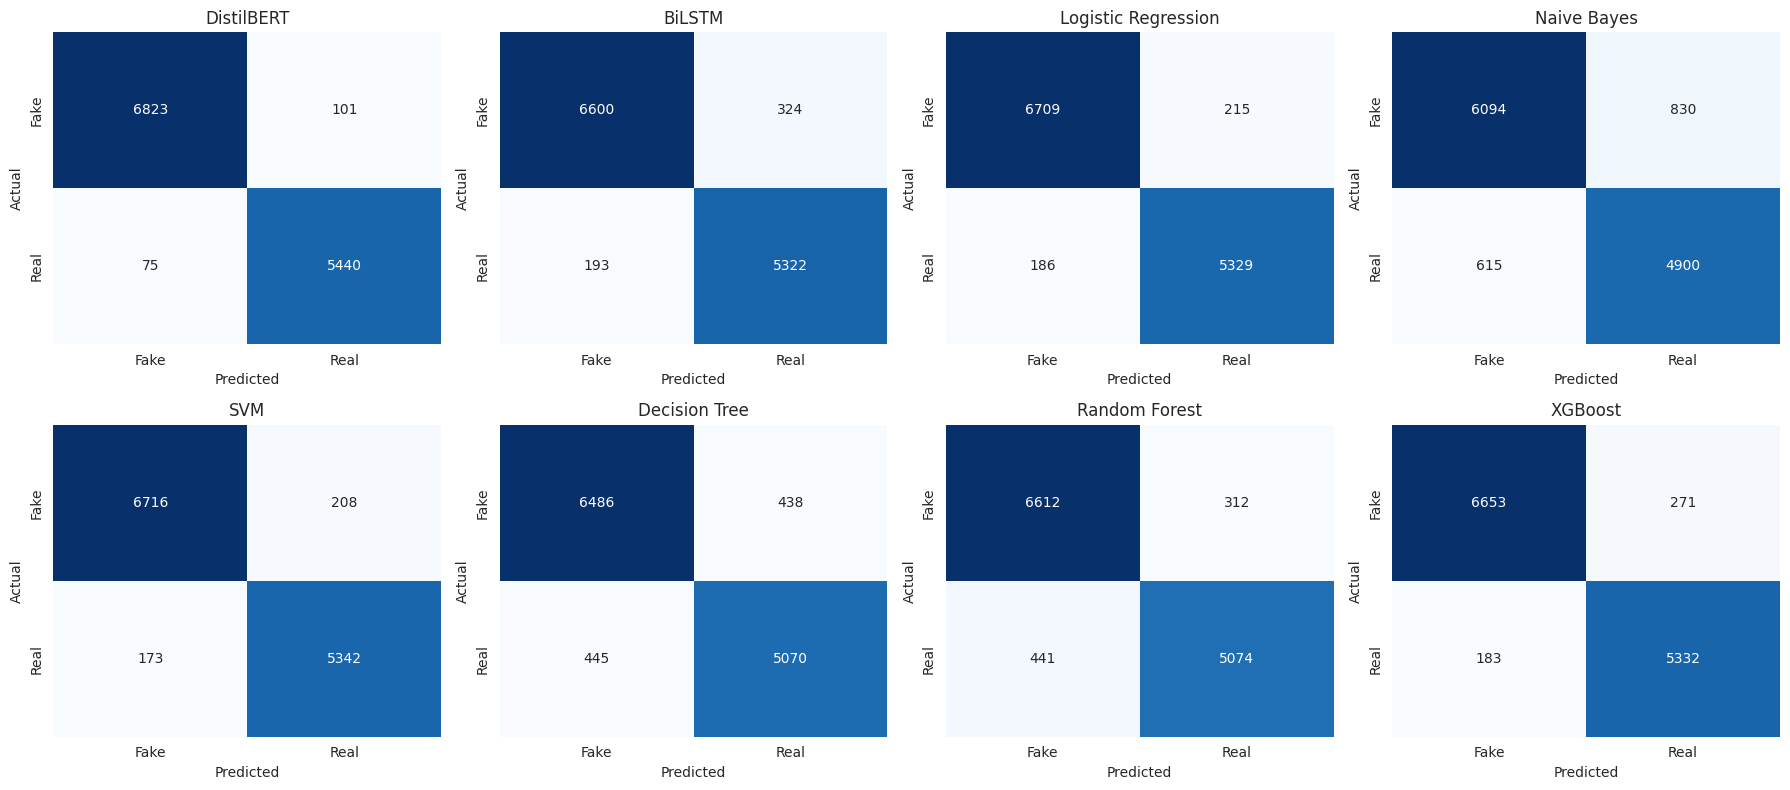
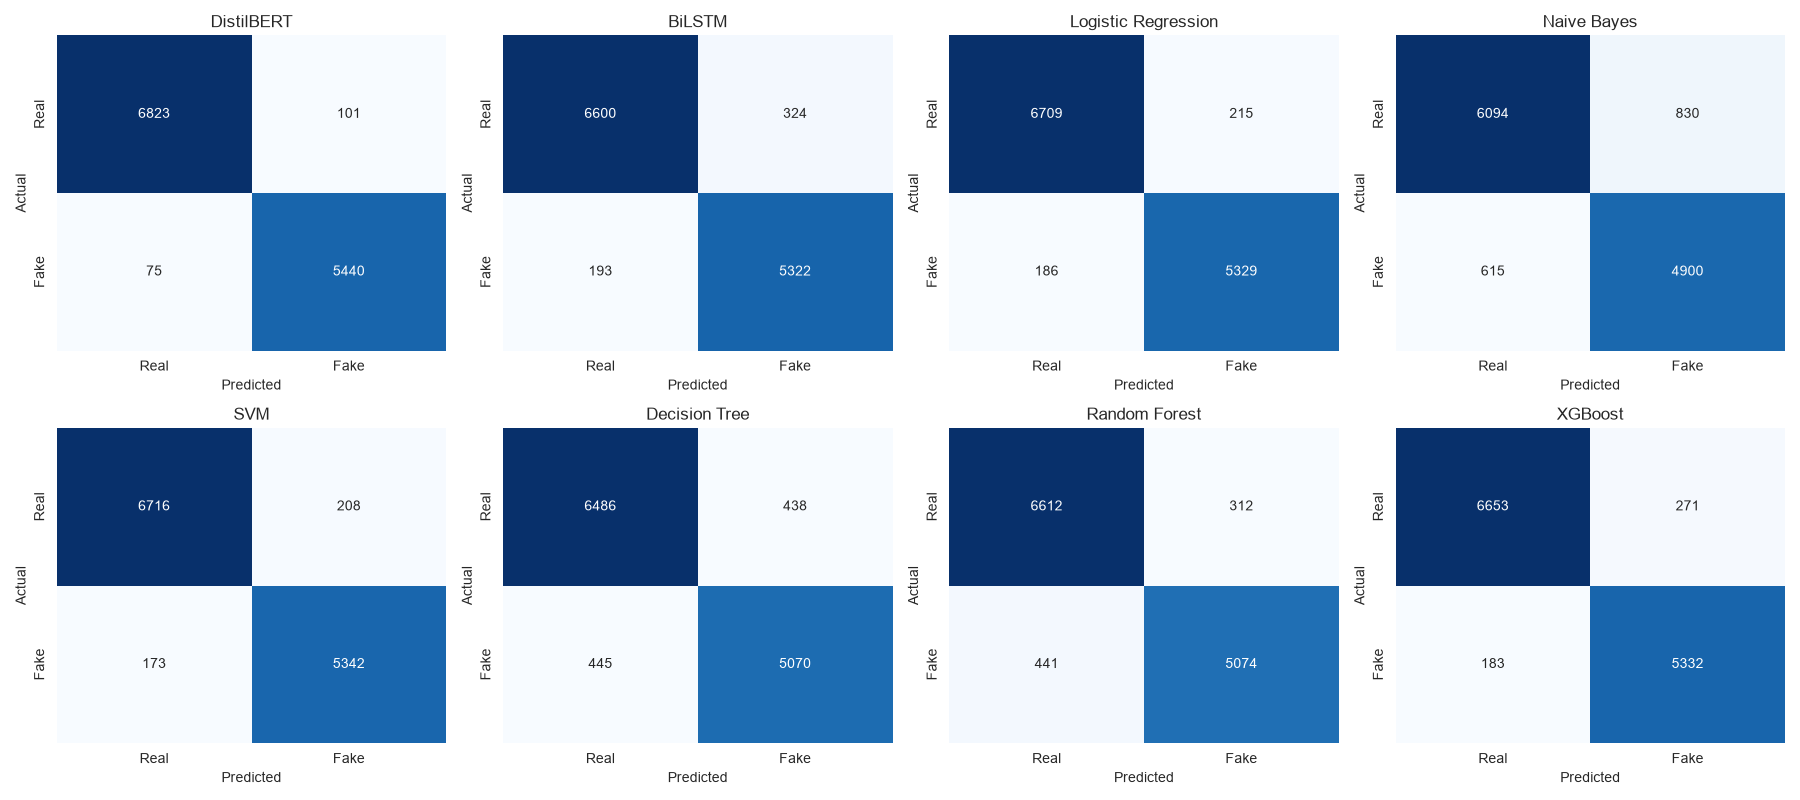
Fix label mapping, add license, and tidy notebook for publishing
- Use the audited label mapping (0 = Real, 1 = Fake) in all notebook plots
- Regenerate confusion matrix and LR top-terms figures with correct labels
- Remove inline pip installs, course leftovers, and pickling of the HF model
- Add MIT license and version lower bounds in requirements.txt

diff --git a/README.md b/README.md
@@ -44,7 +44,11 @@ The Kaggle dataset page says `0 = fake, 1 = real`. **The data says the opposite:
 | 0 | 35,028 | **60.7%** | 0.0% |
 | 1 | 37,106 | 0.0% | **20.0%** |
 
-The model independently confirms this: `reuters` is the strongest label-0 feature in the Logistic Regression coefficients. Accuracy, F1, and AUC are unaffected. However, the "Fake" and "Real" captions on the EDA plots in the notebook come from the Kaggle naming and should be read swapped, so the notebook carries a note explaining this.
+The model independently confirms this: `reuters` is the strongest label-0 feature in the Logistic Regression coefficients (below). The notebook uses the corrected mapping, **0 = Real and 1 = Fake**, throughout. The metrics don't depend on the naming, but anyone who trusts the Kaggle description will read every per-class result backwards.
+
+<p align="center">
+  <img src="images/lr_top_terms.png" alt="Top Logistic Regression terms for each class" width="85%">
+</p>
 
 This also shows a **dataset shortcut**: source-specific artefacts like `(Reuters)`, `Featured image`, and `pic twitter` are highly predictive. Part of every model's accuracy therefore comes from *where* an article was published rather than *what* it claims. This is a known limitation of WELFake-style corpora, and the obvious next step would be to evaluate on sources the models haven't seen.
 
@@ -70,7 +74,7 @@ WELFake (72,134) ─► Clean: drop NaN, duplicate texts, empty rows ─► 62,1
 | ![Model comparison](images/model_comparison.png) | ![BiLSTM curves](images/bilstm_training_curves.png) |
 
 ![Confusion matrices for all models](images/confusion_matrices.png)
-*Confusion matrices. Axis captions follow the Kaggle naming, so read "Fake" as label 0 (actually Real) and "Real" as label 1 (actually Fake).*
+*Confusion matrices for all eight models on the held-out test set.*
 
 ## 🚀 Run It
 
@@ -92,7 +96,8 @@ jupyter notebook fake_news_detection.ipynb
 ```
 ├── fake_news_detection.ipynb   # EDA → preprocessing → 8 models → comparison
 ├── images/                     # Figures exported from the notebook
-└── requirements.txt
+├── requirements.txt
+└── LICENSE
 ```
 
 The dataset (245 MB) isn't committed. Get it from [Kaggle: WELFake](https://www.kaggle.com/datasets/saurabhshahane/fake-news-classification).
@@ -108,6 +113,10 @@ The dataset (245 MB) isn't committed. Get it from [Kaggle: WELFake](https://www.
 7. V.-H. Nguyen et al., "FANG: Leveraging Social Context for Fake News Detection Using Graph Representation," *CIKM*, 2020.
 8. K. Nakamura, S. Levy, W. Y. Wang, "r/Fakeddit: A New Multimodal Benchmark Dataset for Fine-grained Fake News Detection," *LREC*, 2020.
 9. J. Su et al., "Fake News Detectors are Biased against Texts Generated by Large Language Models," arXiv:2309.08674, 2023.
+
+## 📄 License
+
+Code is released under the [MIT License](LICENSE). The WELFake dataset is distributed by its authors under its own terms; see the Kaggle page.
 
 ---
 
